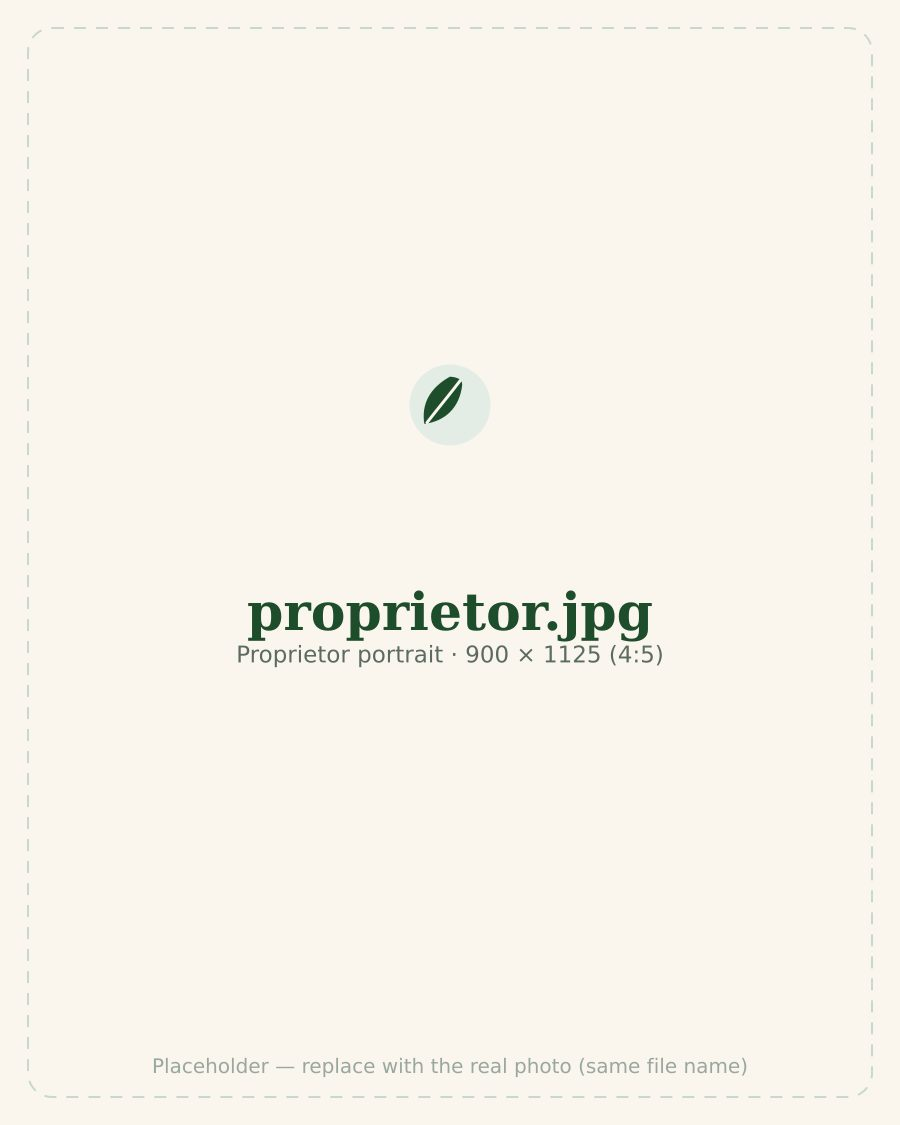
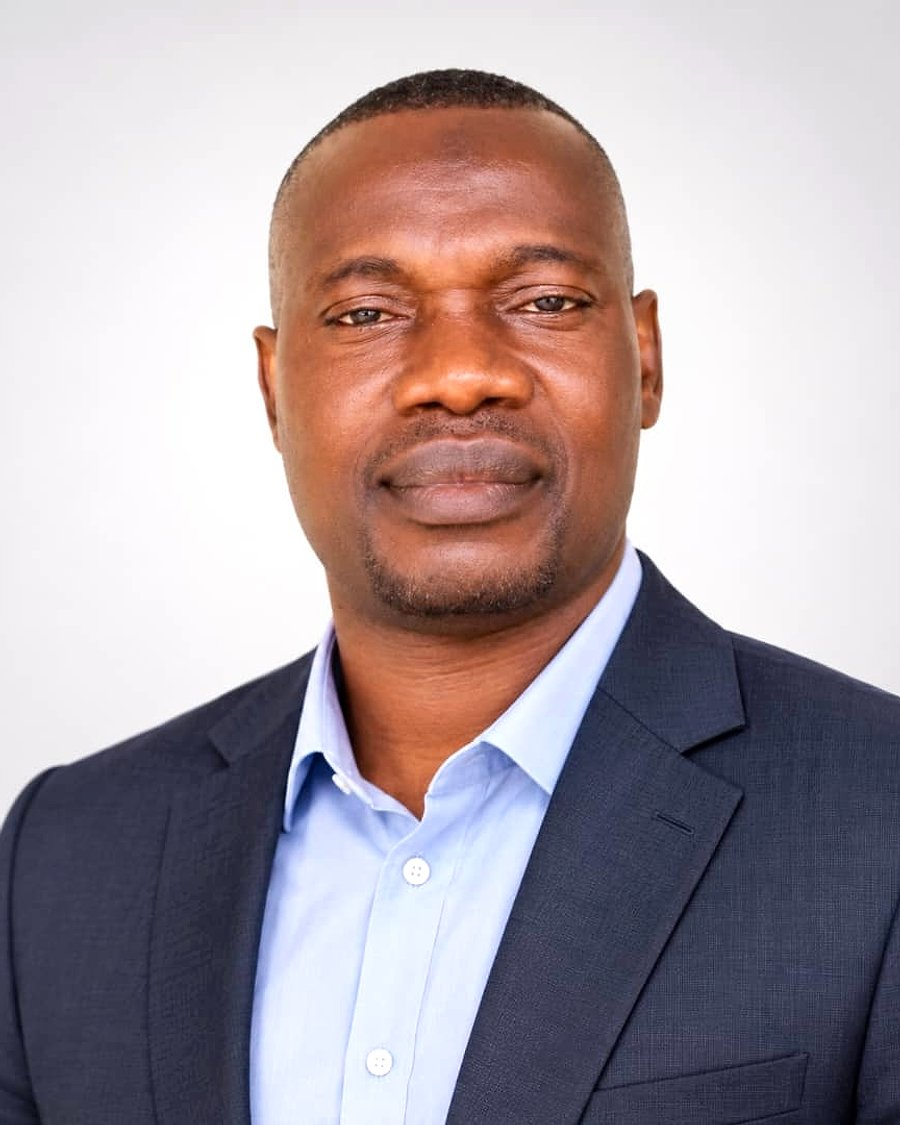
About: real founder portrait, real school story (2010, Govt approval, WAEC/NECO), fix founding year everywhere

diff --git a/app/about/page.tsx b/app/about/page.tsx
@@ -24,13 +24,14 @@ import { siteConfig } from "@/lib/siteConfig";
 export const metadata: Metadata = {
   title: "About Us",
   description:
-    "The story, vision, values and people behind The Green Peace School, from our founding in 1998 to today.",
+    "The story, vision, values and people behind The Green Peace School, from our founding in 2010 to today.",
   alternates: { canonical: canonicalUrl("/about") },
 };
 
-/* TODO: replace the names, titles and messages below with the real
-   proprietor/principal details. Portraits: /public/images/proprietor.jpg
-   and /public/images/principal.jpg (4:5 or square). */
+/* The Founder's name, message and portrait are the real ones.
+   TODO: replace the principal's name, message and portrait.
+   Portraits live in /public/images (proprietor.jpg, principal.jpg,
+   4:5 or square). Team names below are placeholders (TODO markers). */
 
 const VALUES: Array<{ icon: LucideIcon; name: string; text: string }> = [
   {
@@ -194,30 +195,33 @@ export default function AboutPage() {
                 id="story-heading"
                 className="mt-2 font-serif text-3xl leading-tight text-text sm:text-4xl"
               >
-                It began with twenty-four pupils and a big idea.
+                It began in 2010 with a vision, not just a building.
               </h2>
-              {/* TODO: replace with the school's real history. */}
               <p className="mt-4 leading-relaxed text-text-muted">
-                {siteConfig.name} was founded in {siteConfig.foundedYear} with
-                twenty-four pupils and a modest two-room building on{" "}
-                {siteConfig.address.street}. The idea was simple: a school
-                where children are known by name, where teachers stay to
-                learn as well as teach, and where character is treated as
-                seriously as any subject.
+                In {siteConfig.foundedYear}, {siteConfig.name} was born, not
+                just as a building, but as a vision: a standard where every
+                child gets the best of education.
               </p>
               <p className="mt-3 leading-relaxed text-text-muted">
-                Word travelled quickly. Families who loved the calm, honest
-                classroom brought their siblings; those brought their
-                friends. By the first decade we had grown to a full primary
-                wing, and today more than {siteConfig.stats.students} pupils
-                from Nursery to SS 3 learn across three wings of a green,
-                fenced campus in {siteConfig.address.city}.
+                The name carries its promise. Green means life, growth and a
+                brighter future. Peace is the belief that a child learns
+                best in an environment of natural peace, love and calm. From
+                the very beginning, the mission was clear: every child
+                deserves quality, every child deserves to be seen, and every
+                child deserves a chance to shine.
               </p>
               <p className="mt-3 leading-relaxed text-text-muted">
-                The classrooms have grown; the idea has not. We still greet
-                every child at the gate, we still keep our classes small,
-                and we still tell parents the honest truth, kindly and on
-                time.
+                The journey was not easy. The school went through difficult
+                times, when the road was rough and the future looked
+                uncertain, but it never gave up. It kept praying, kept
+                working, and kept believing in the children God gave it.
+              </p>
+              <p className="mt-3 leading-relaxed text-text-muted">
+                Today the school is fully approved by the Government and
+                approved for WAEC and NECO examinations. Its students write
+                their exams with confidence in a school that started with
+                just a dream. It has grown, it has become stronger, and it
+                is still growing.
               </p>
             </div>
           </Reveal>
@@ -304,16 +308,18 @@ export default function AboutPage() {
           <div className="mx-auto max-w-5xl">
             <PersonMessage
               image={images.proprietor}
-              alt="Portrait of the school's proprietor"
-              eyebrow="A message from our Proprietress"
-              name="Mrs. Adunni Okafor" // TODO: replace
-              role="Proprietress"
-              signature="Adunni Okafor" // TODO: replace
+              alt="Portrait of Mr. Abatti Olalekan Ahmed, Founder of The Green Peace School"
+              eyebrow="A message from our Founder"
+              name="Mr. Abatti Olalekan Ahmed"
+              role="Founder & Proprietor"
+              signature="Mr. Abatti Olalekan Ahmed"
               headingId="proprietor-heading"
               paragraphs={[
-                `When we opened ${siteConfig.name} in ${siteConfig.foundedYear}, our dream was simple: a place where children are known, loved and encouraged to be their very best. We had twenty-four pupils, two modest classrooms, and one unshakeable belief: that every child, in every family, deserves a school that treats them as a gift.`,
-                "Twenty-eight years later, that belief is the school. It is why our teachers greet every child at the gate, why we keep our classes small, and why we speak to parents honestly about how their child is doing, not just at exam time, but every term. Many of our first pupils are now at university, and watching them grow into confident young adults is the proudest part of my life.",
-                "To the families considering a place with us: we would be honoured to welcome you. Come and visit. Walk the campus, meet the teachers, and watch the children. Then decide if this feels like home. We think it will.",
+                "In 2010, The Green Peace School was born, not just as a building, but as a vision: a standard where every child gets the best of education. We chose the name GREEN because green means life, growth and a brighter future. We chose PEACE because we believe a child learns best in an environment of natural peace, love and calm.",
+                "From the very beginning, our mission was clear. Every child deserves quality. Every child deserves to be seen. Every child deserves a chance to shine. The journey was not easy. We went through difficult times, when it was hard to keep going, when the road was rough and the future looked uncertain. But we did not give up. We kept praying, we kept working, and we kept believing in the children God gave us.",
+                "And today, we can only lift our hands and say: thank God for His mercy. From that small beginning in 2010, the school is now fully approved by the Government and approved for WAEC and NECO examinations. Our students write their exams with confidence in a school that started with just a dream.",
+                "To every parent who trusted us from the beginning, to every teacher who stood with us through the storms, and to every student who is part of this family, thank you. This testimony belongs to all of us.",
+                "The Green Peace School is not just a school. It is a place where green stands for a brighter future, and peace stands for natural peace and growth. We started with faith. We survived by grace. And by God's mercy, the best is yet to come.",
               ]}
             />
           </div>

diff --git a/lib/siteConfig.ts b/lib/siteConfig.ts
@@ -16,9 +16,9 @@ export const siteConfig = {
   shortName: "Green Peace School",
   tagline: "Nurturing Minds. Growing Character. Shaping Futures.",
   description:
-    "A warm, values-driven Nursery, Primary and Secondary school in Ifo, Ogun State. Raising confident, curious and kind children since 1998.", // TODO: review (founding year)
+    "A warm, values-driven Nursery, Primary and Secondary school in Ifo, Ogun State. Raising confident, curious and kind children since 2010.",
   url: "https://www.thegreenpeaceschool.ng", // TODO: replace with the live domain
-  foundedYear: 1998, // TODO: replace
+  foundedYear: 2010,
 
   address: {
     street:

diff --git a/public/images/README.md b/public/images/README.md
@@ -21,7 +21,7 @@ itself (no code changes needed).
 | `hero.jpg` 📷 | Home — hero background | 1920×1080 (landscape) | The classroom wing + open yard; a green overlay sits on top |
 | `welcome.jpg` 📷 | Home — welcome section | 1200×900 (4:3) | The main building with the mission & vision boards |
 | `about-story.jpg` 📷 | About — “Our Story” | 1200×800 (3:2) | The colourful classroom courtyard |
-| `proprietor.jpg` 🖼 | About — Proprietress message | 900×1125 (4:5) or square | **Placeholder** — portrait, shoulders-up |
+| `proprietor.jpg` 📷 | About — Founder's message | 900×1125 (4:5) or square | Real portrait: Mr. Abatti Olalekan Ahmed, Founder |
 | `principal.jpg` 🖼 | About — Principal message | 900×1125 (4:5) or square | **Placeholder** — portrait, shoulders-up |
 | `nursery.jpg` 📷 | Academics — Nursery card | 1000×750 (4:3) | The colourful colonnade beside the play yard |
 | `primary.jpg` 📷 | Academics — Primary card | 1000×750 (4:3) | The classroom wing and open yard |
